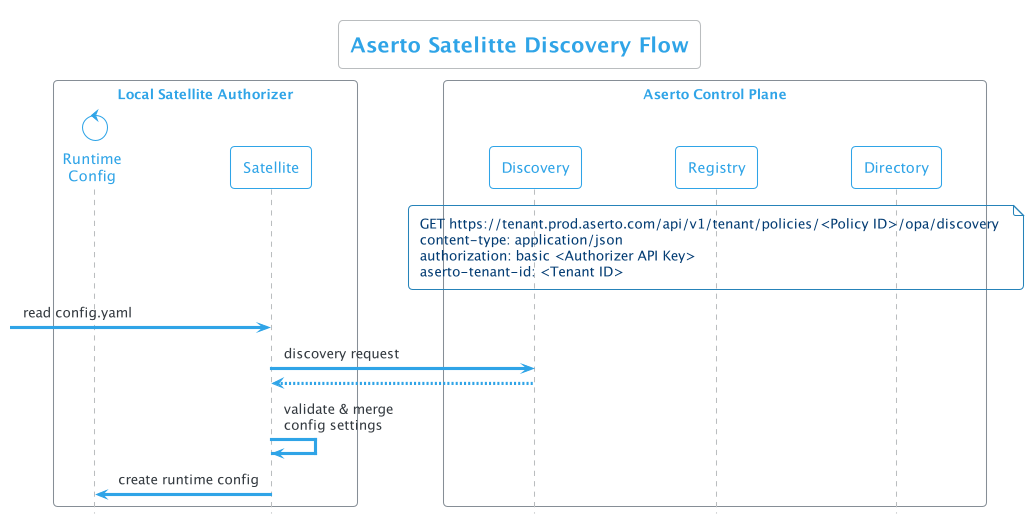
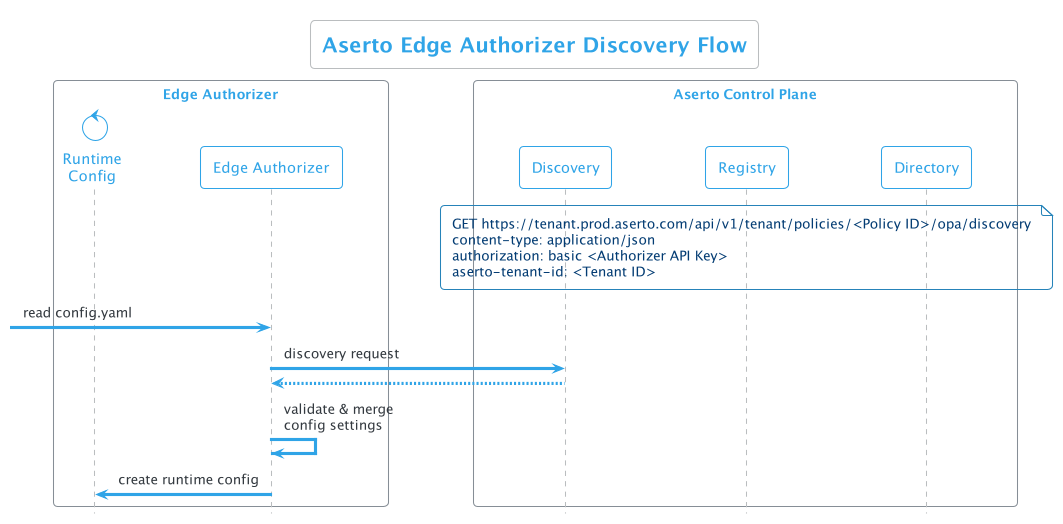
satellite to edge, rearranged sidebar

diff --git a/sidebars.js b/sidebars.js
@@ -73,18 +73,6 @@ module.exports = {
     {
       'Authorizer Guide': [
         'authorizer-guide/overview',
-        {
-          type: 'category',
-          label: 'Satellite Authorizers',
-          collapsed: true,
-          items: [
-            'authorizer-guide/satellite-authorizers/overview',
-            'authorizer-guide/satellite-authorizers/deployment-and-operation',
-            'authorizer-guide/satellite-authorizers/discovery-flow',
-            'authorizer-guide/satellite-authorizers/runtime-flow',
-            'authorizer-guide/satellite-authorizers/directory-synchronization',
-          ],
-        },
         'authorizer-guide/authz',
         'authorizer-guide/is',
         'authorizer-guide/identity-context',
@@ -95,34 +83,6 @@ module.exports = {
         'authorizer-guide/decisiontree',
         'authorizer-guide/dir',
         'authorizer-guide/policy',
-      ],
-    },
-    {
-      'Decision Logs Guide': [
-        'decision-logs-guide/overview',
-        'decision-logs-guide/console',
-        {
-          type: 'category',
-          label: 'APIs',
-          collapsed: false,
-          items: [
-            'decision-logs-guide/api/overview',
-            'decision-logs-guide/api/decision-logs',
-            'decision-logs-guide/api/users',
-            'decision-logs-guide/api/query',
-          ],
-        },
-        'decision-logs-guide/schemas',
-        {
-          type: 'category',
-          label: 'Elastic (ELK) Integration',
-          collapsed: false,
-          items: [
-            'decision-logs-guide/elk/configure',
-            'decision-logs-guide/elk/decision-logs-conf',
-            'decision-logs-guide/elk/users-conf',
-          ],
-        },
       ],
     },
     {
@@ -245,6 +205,46 @@ module.exports = {
             'command-line-interface/aserto-idp-cli/usage',
           ],
         },
+      ],
+    },
+    {
+      'Decision Logs Guide': [
+        'decision-logs-guide/overview',
+        'decision-logs-guide/console',
+        {
+          type: 'category',
+          label: 'APIs',
+          collapsed: false,
+          items: [
+            'decision-logs-guide/api/overview',
+            'decision-logs-guide/api/decision-logs',
+            'decision-logs-guide/api/users',
+            'decision-logs-guide/api/query',
+          ],
+        },
+        'decision-logs-guide/schemas',
+        {
+          type: 'category',
+          label: 'Elastic (ELK) Integration',
+          collapsed: false,
+          items: [
+            'decision-logs-guide/elk/configure',
+            'decision-logs-guide/elk/decision-logs-conf',
+            'decision-logs-guide/elk/users-conf',
+          ],
+        },
+      ],
+    },
+    {
+      type: 'category',
+      label: 'Edge Authorizers',
+      collapsed: true,
+      items: [
+        'edge-authorizers/overview',
+        'edge-authorizers/deployment-and-operation',
+        'edge-authorizers/discovery-flow',
+        'edge-authorizers/runtime-flow',
+        'edge-authorizers/directory-synchronization',
       ],
     },
     {
